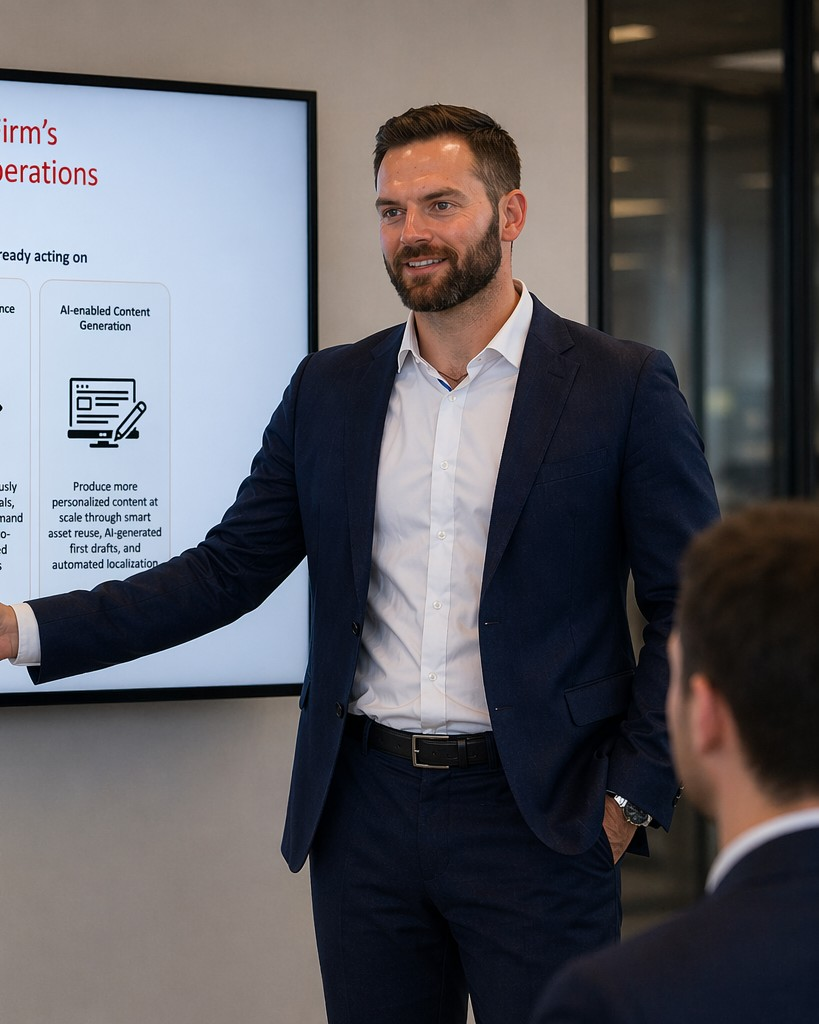
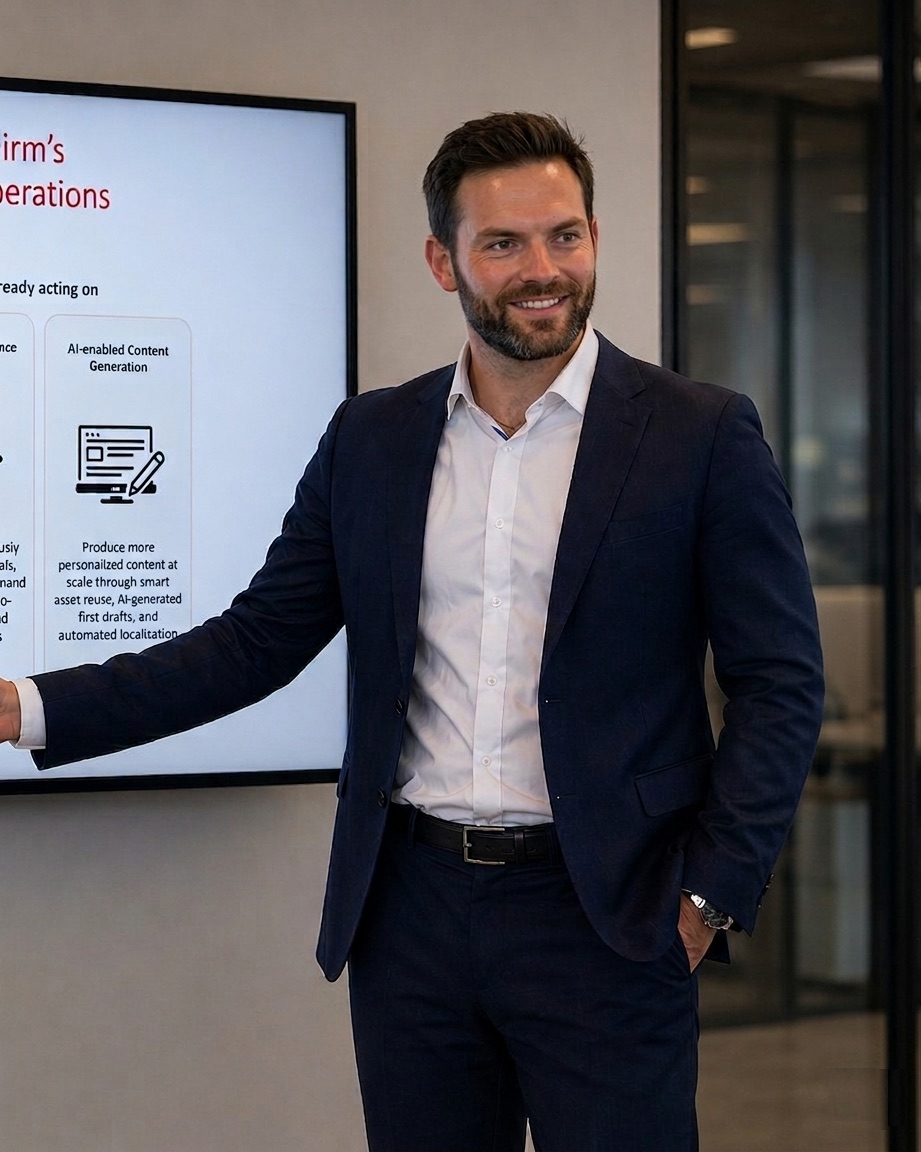
Update hero, about, and diagnostic-sprint photos
- Replace hero and about portraits with new optimized images
- Swap whiteboard for office portrait in Diagnostic Sprint section
- Anchor tier hero image crop to top so portraits frame cleanly

diff --git a/src/styles/global.css b/src/styles/global.css
@@ -1452,6 +1452,7 @@ ul {
   width: 100%;
   height: 100%;
   object-fit: cover;
+  object-position: center 12%;
   display: block;
 }
 @media (max-width: 860px) {